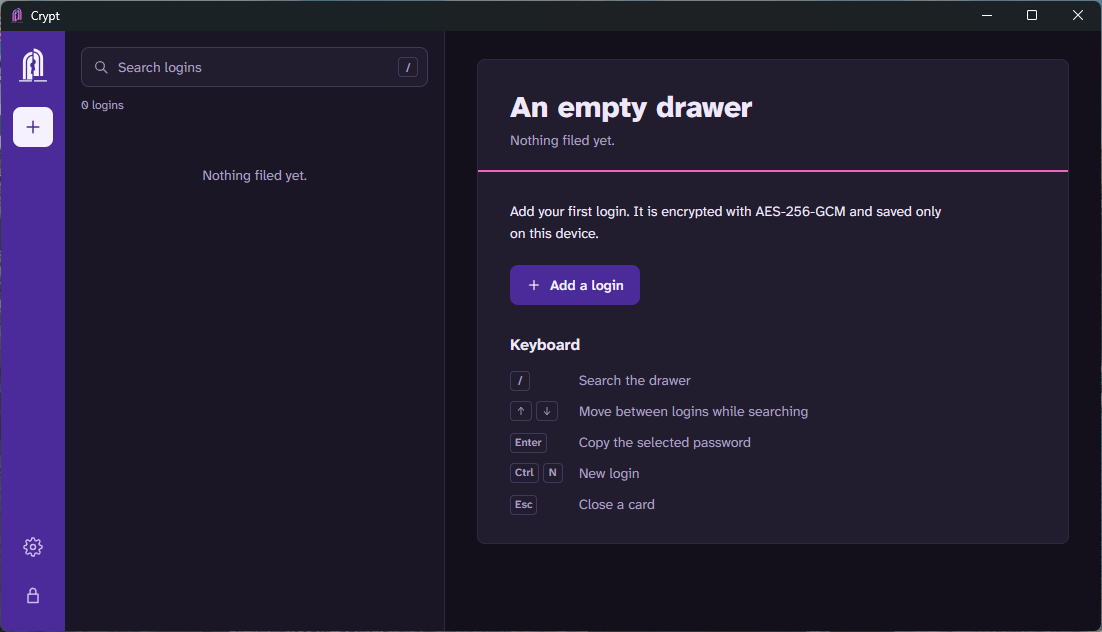
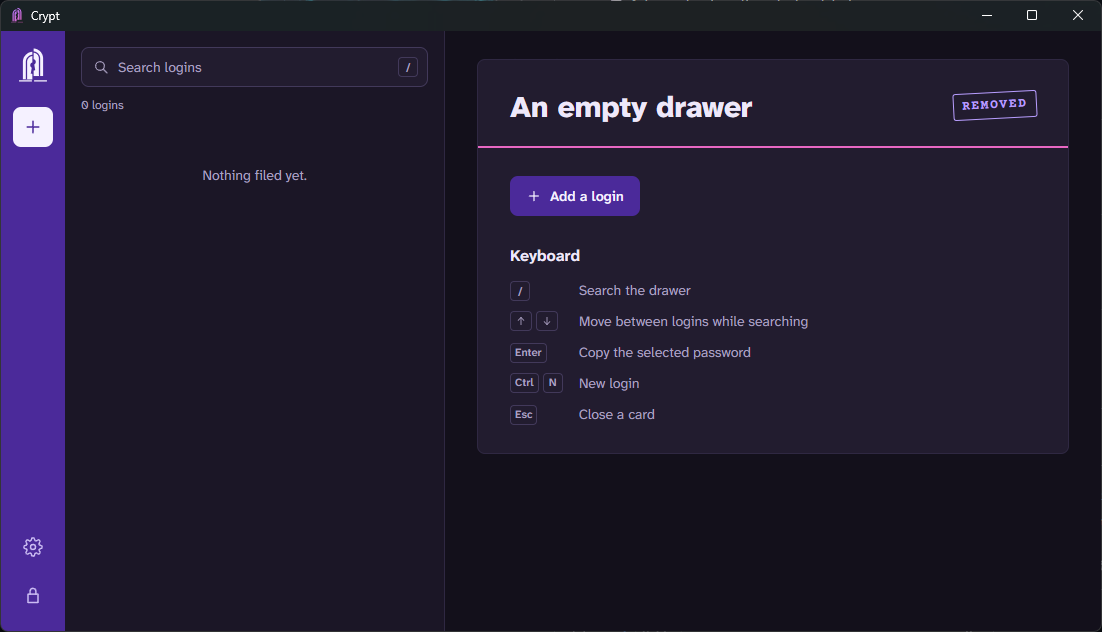
ref: deAIize

diff --git a/src/routes/components/overview-card.svelte b/src/routes/components/overview-card.svelte
@@ -26,14 +26,8 @@
 </script>
 
 <CardShell title={empty ? 'An empty drawer' : `${total} ${total === 1 ? 'login' : 'logins'} filed`} {stamp} {error}>
-  {#snippet sub()}
-    {empty ? 'Nothing filed yet.' : 'Open a card from the drawer, or search for one.'}
-  {/snippet}
 
   {#if empty}
-    <p class="mt-5 max-w-[48ch] text-sm leading-relaxed">
-      Add your first login. It is encrypted with AES-256-GCM and saved only on this device.
-    </p>
     <Button variant="primary" class="mt-5" onclick={onadd}>
       <Icon name="plus" />
       Add a login
@@ -43,7 +37,6 @@
       <h2 id="weak-heading" class="text-base font-bold">
         {weak.length} weak {weak.length === 1 ? 'password' : 'passwords'}
       </h2>
-      <p class="mt-1 text-sm text-muted">Short or simple. Replace these when you next sign in.</p>
       <ul class="mt-3 border-t border-hair">
         {#each weak.slice(0, 5) as entry (entry.id)}
           <li class="border-b border-hair">

diff --git a/src/routes/components/new-card.svelte b/src/routes/components/new-card.svelte
@@ -51,7 +51,6 @@
 {/snippet}
 
 <CardShell title="New login" {error} onback={oncancel}>
-  {#snippet sub()}Encrypted and saved only on this device.{/snippet}
 
   <form onsubmit={submit} class="mt-4 space-y-5">
     <div class="space-y-1.5">

diff --git a/README.md b/README.md
@@ -36,7 +36,7 @@
 
 ### Settings
 
-<img src="img/image.png" />
+<img src="img/image1.png" />
 
 ## How it works
 
